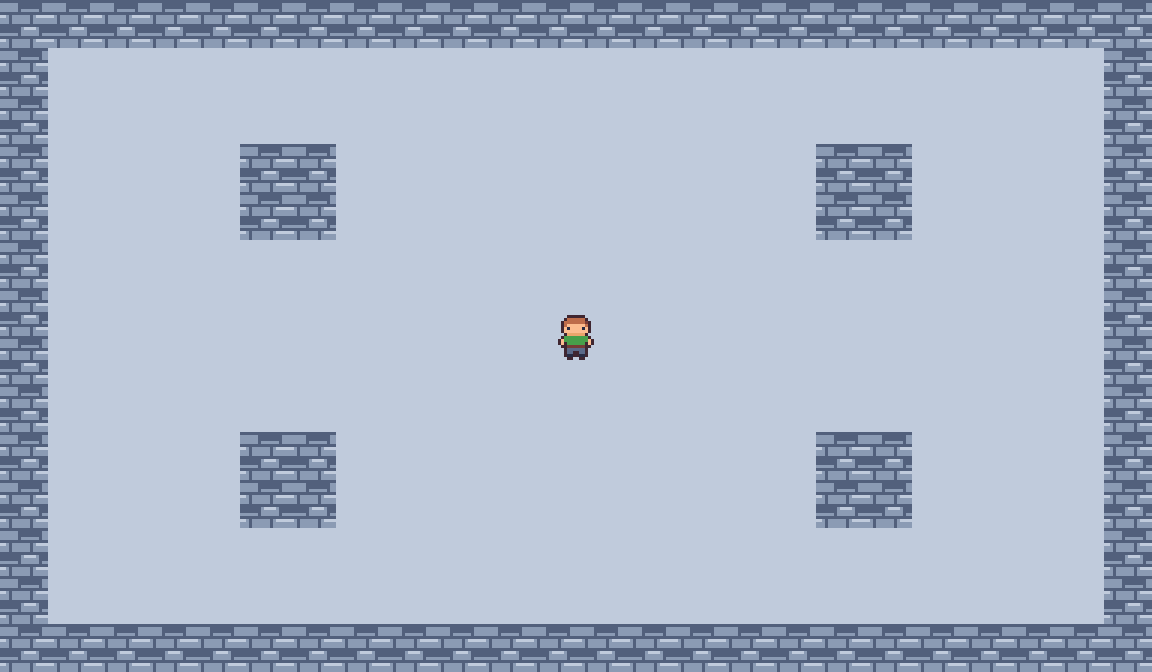
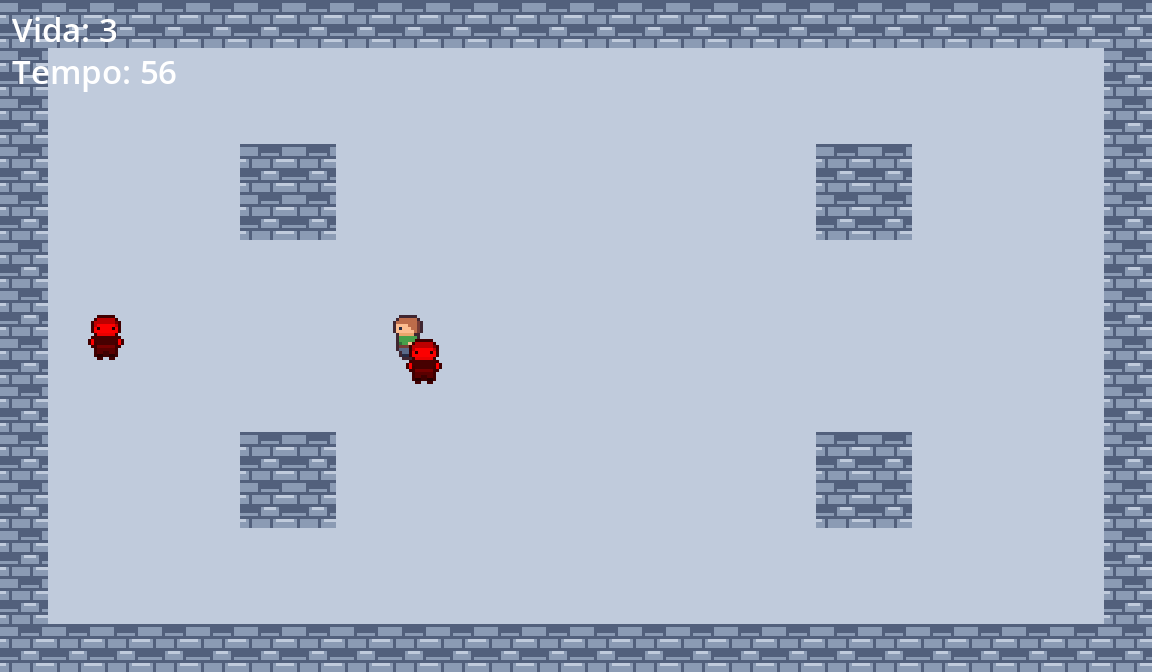
aula-09: inimigos, horda, vida e o objetivo do jogo

diff --git a/DEVLOG.md b/DEVLOG.md
@@ -6,3 +6,11 @@ O que fiz: a arena do castelo, um retângulo de 24 × 14 peças que cabe numa te
 Como fiz: com ajuda de IA (Claude), seguindo a técnica do roteiro da Aula 08; conferi rodando o jogo e lendo cada parte.
 O que travou: com a câmera em zoom 3 da vila, a arena não cabia inteira na tela.
 Como resolvi: tirei a câmera e fiz a janela do tamanho da arena (384 × 224, escalada 3× em números inteiros).
+
+## Aula 09 — 21/10 (feita em 03/11, atrasada)
+
+O que fiz: o inimigo que persegue, a horda que nasce nas quatro bordas da arena e aperta com o tempo, a vida com um segundo de invencibilidade, as telas de vitória e derrota e o placar com vida e tempo. Por enquanto vence quem aguenta 60 s; a saída do tipo Fuga é a próxima etapa.
+Como fiz: com ajuda de IA (Claude), seguindo a folha de consulta da Aula 09, um commit por parte e testando cada uma antes de seguir.
+O que travou: as fontes da folha (48 no fim e 32 no placar) são para uma tela de 1152 px, e a minha arena tem 384 px; o texto não cabia.
+Como resolvi: usei um terço do tamanho, 16 e 11, que fica na mesma proporção.
+

diff --git a/README.md b/README.md
@@ -10,7 +10,7 @@ Projeto do 2º semestre de Jogos Digitais II — Endrik Perin (802.524)
 
 ## Como jogar
 
-Setas ou WASD movem o personagem nas quatro direções.
+Setas ou WASD movem o personagem nas quatro direções. Os inimigos vermelhos nascem nas bordas da arena, cada vez mais rápido; encostar tira 1 de vida. Sem vida, a partida é perdida; aguentando 60 segundos, vencida. Enter recomeça.
 
 ![Captura de tela](captura.png)
 
